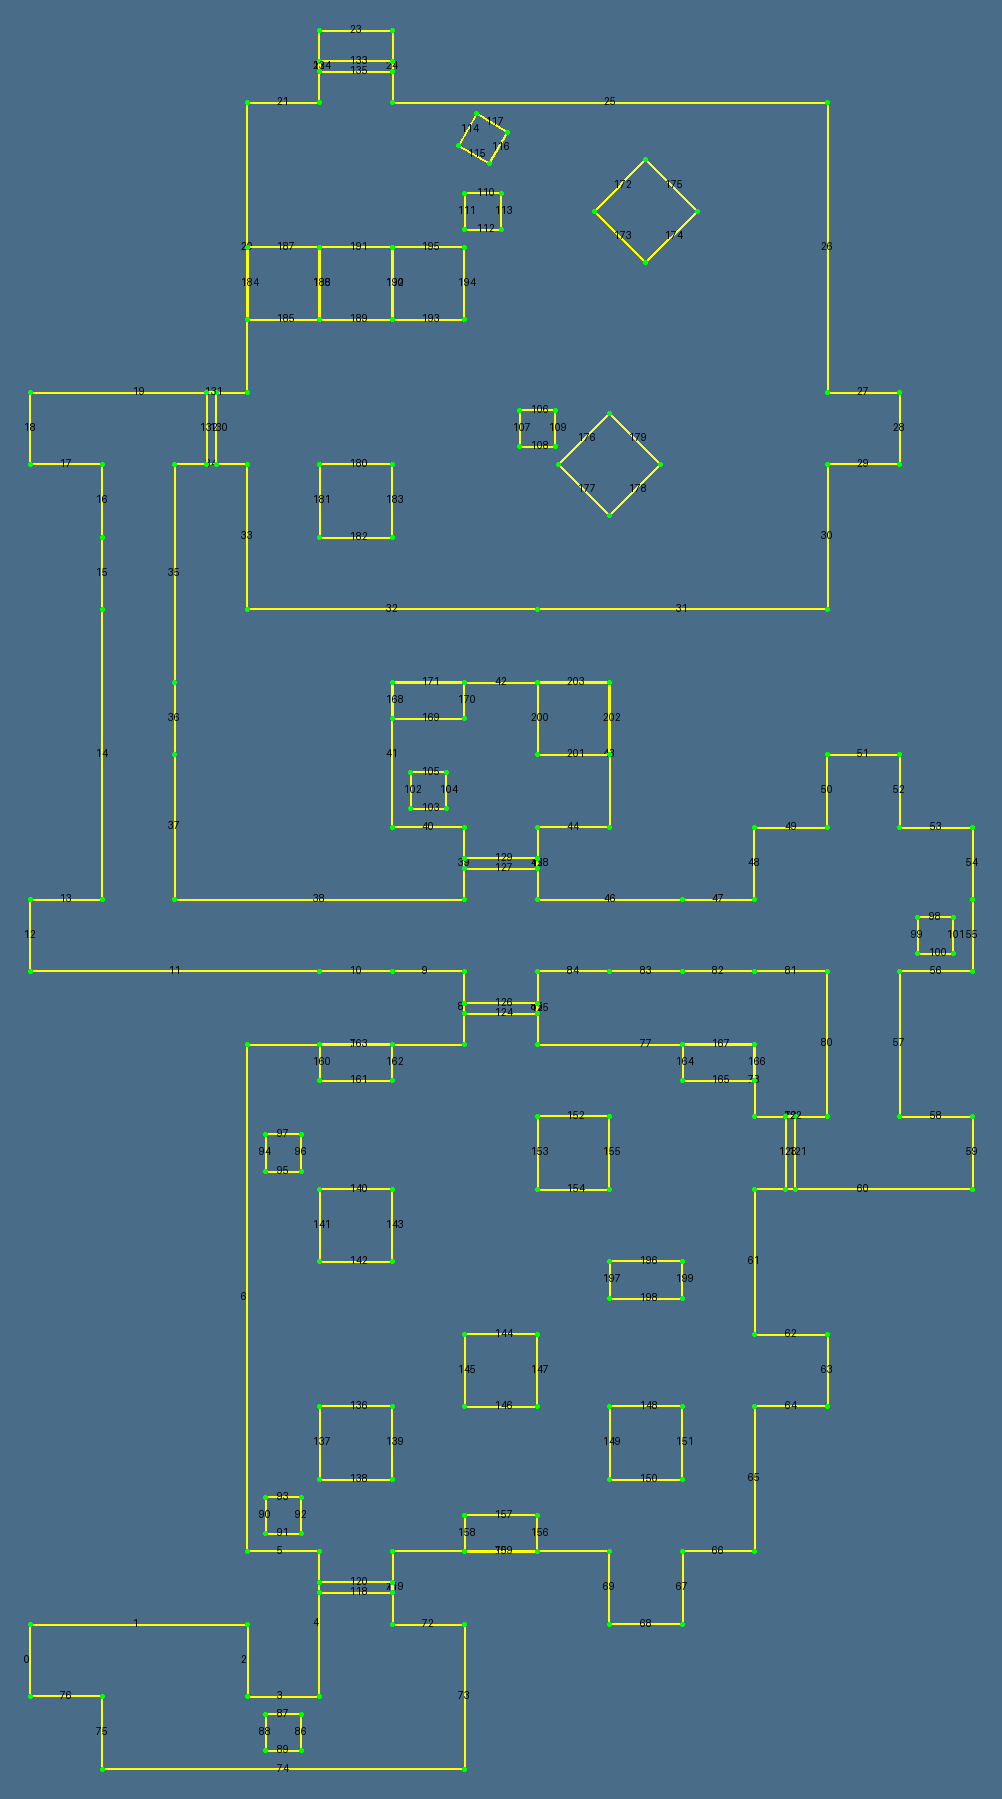
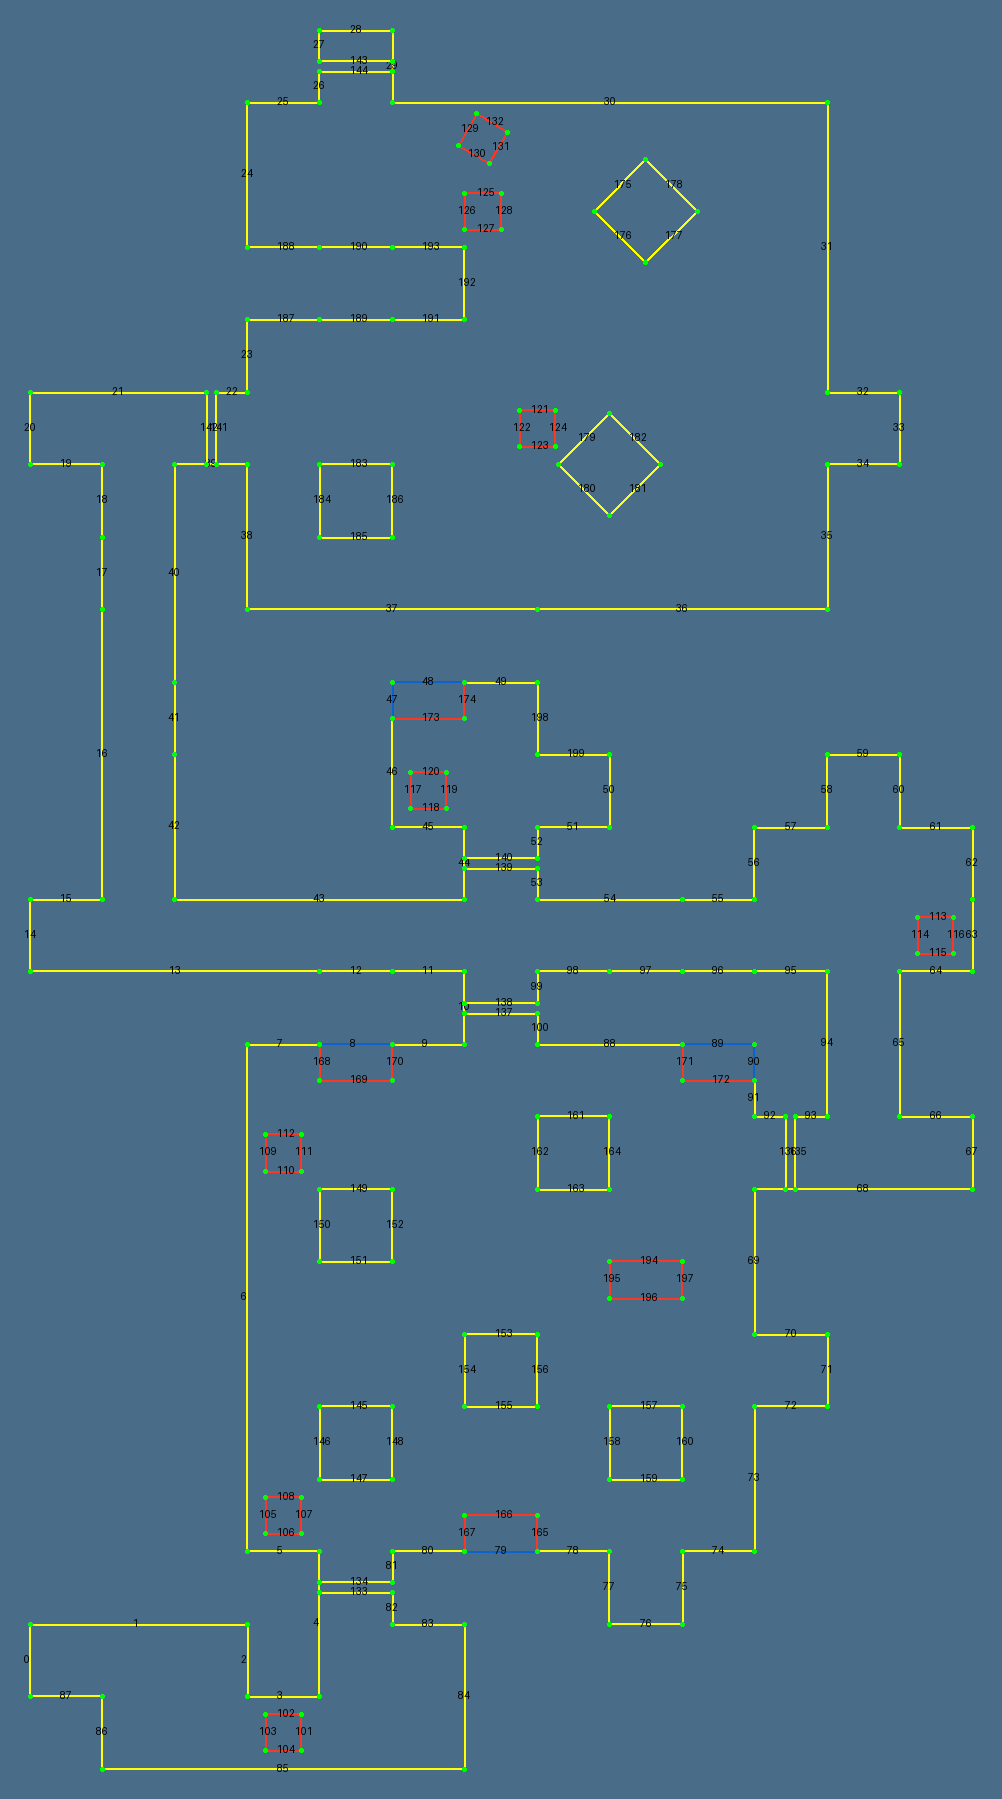
fix resolveSegmentsOverlap_ 4

diff --git a/src/algebraFunctions.py b/src/algebraFunctions.py
@@ -37,9 +37,14 @@ def resolveSegmentsOverlap_(xA, yA, xB, yB, xC, yC, xD, yD):
         if overlap_start < overlap_end:
             if overlap_start > xA:
                 new_segments.append((xA, yA, overlap_start, yA + (yB - yA) * (overlap_start - xA) / (xB - xA)))
-            new_segments.append((overlap_start, yA + (yB - yA) * (overlap_start - xA) / (xB - xA), overlap_end, yA + (yB - yA) * (overlap_end - xA) / (xB - xA)))
+            if overlap_start < xB and overlap_end > xA:
+                new_segments.append((overlap_start, yA + (yB - yA) * (overlap_start - xA) / (xB - xA), overlap_end, yA + (yB - yA) * (overlap_end - xA) / (xB - xA)))
             if overlap_end < xB:
                 new_segments.append((overlap_end, yA + (yB - yA) * (overlap_end - xA) / (xB - xA), xB, yB))
+            if overlap_start > xC:
+                new_segments.append((xC, yC, overlap_start, yC + (yD - yC) * (overlap_start - xC) / (xD - xC)))
+            if overlap_end < xD:
+                new_segments.append((overlap_end, yC + (yD - yC) * (overlap_end - xC) / (xD - xC), xD, yD))
             return new_segments
 
     return None
@@ -120,7 +125,7 @@ def isAthwart(xA, yA, xB, yB, xC, yC, xD, yD):
 
 
 def test():
-    oldLine1 = (10, 9, 10, 6)
+    oldLine1 =  ((9, 7, 8, 7), (7, 7, 10, 7))
     oldLine2 = (10, 7, 10, 8)
     tuples = [(10, 9, 10, 8), (10, 7, 10, 8), (10, 7, 10, 6)]
     for tup in tuples:
@@ -129,4 +134,4 @@ def test():
         print(isAthwart(*oldLine1, *oldLine2))
         print()
 
-test()
+# test()

diff --git a/src/ClassesInterim.py b/src/ClassesInterim.py
@@ -105,7 +105,8 @@ class MapInterim:
                     continue
                 else:
                     print(i, j, (self.lineToTuple(self.lines[i]), self.lineToTuple(self.lines[j])), "->\n     ", resolved)
-                    # drawMap(self, wait=True)
+                    if i > 170:
+                        drawMap(self, wait=True)
                     oldLine1 = self.lines[i]
                     oldLine2 = self.lines[j]
                     del self.lines[j]

diff --git a/src/convert.py b/src/convert.py
@@ -3,7 +3,7 @@ from drawMap import drawMap
 from ClassesInterim import MapInterim
 
 
-for idx in range(1, 2):
+for idx in range(2, 3):
     map = loadB3DMap(idx)
     map = MapInterim(map)
     drawMap(map, name=f'c1m{idx}', show=False)
